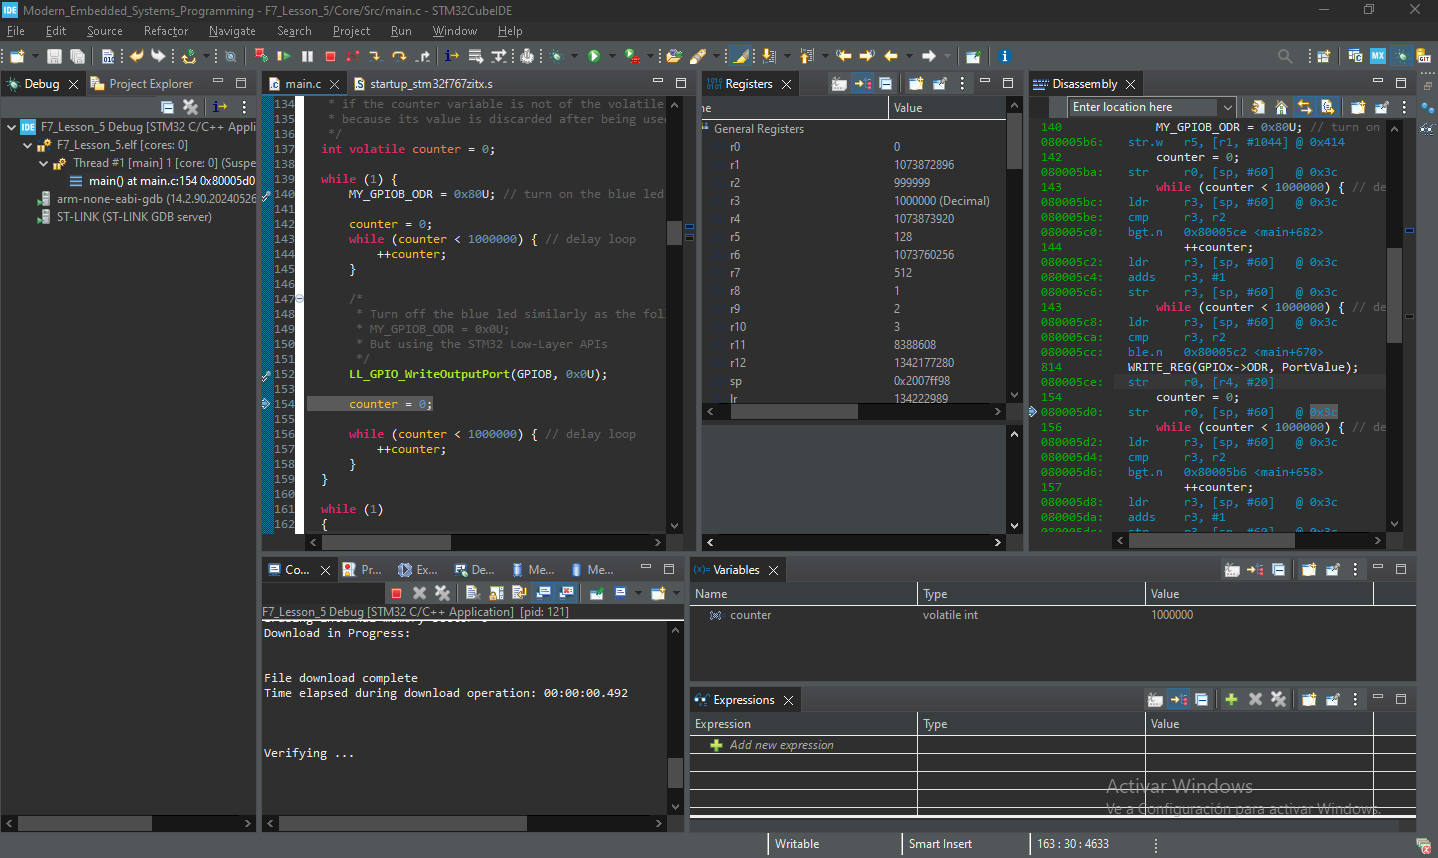
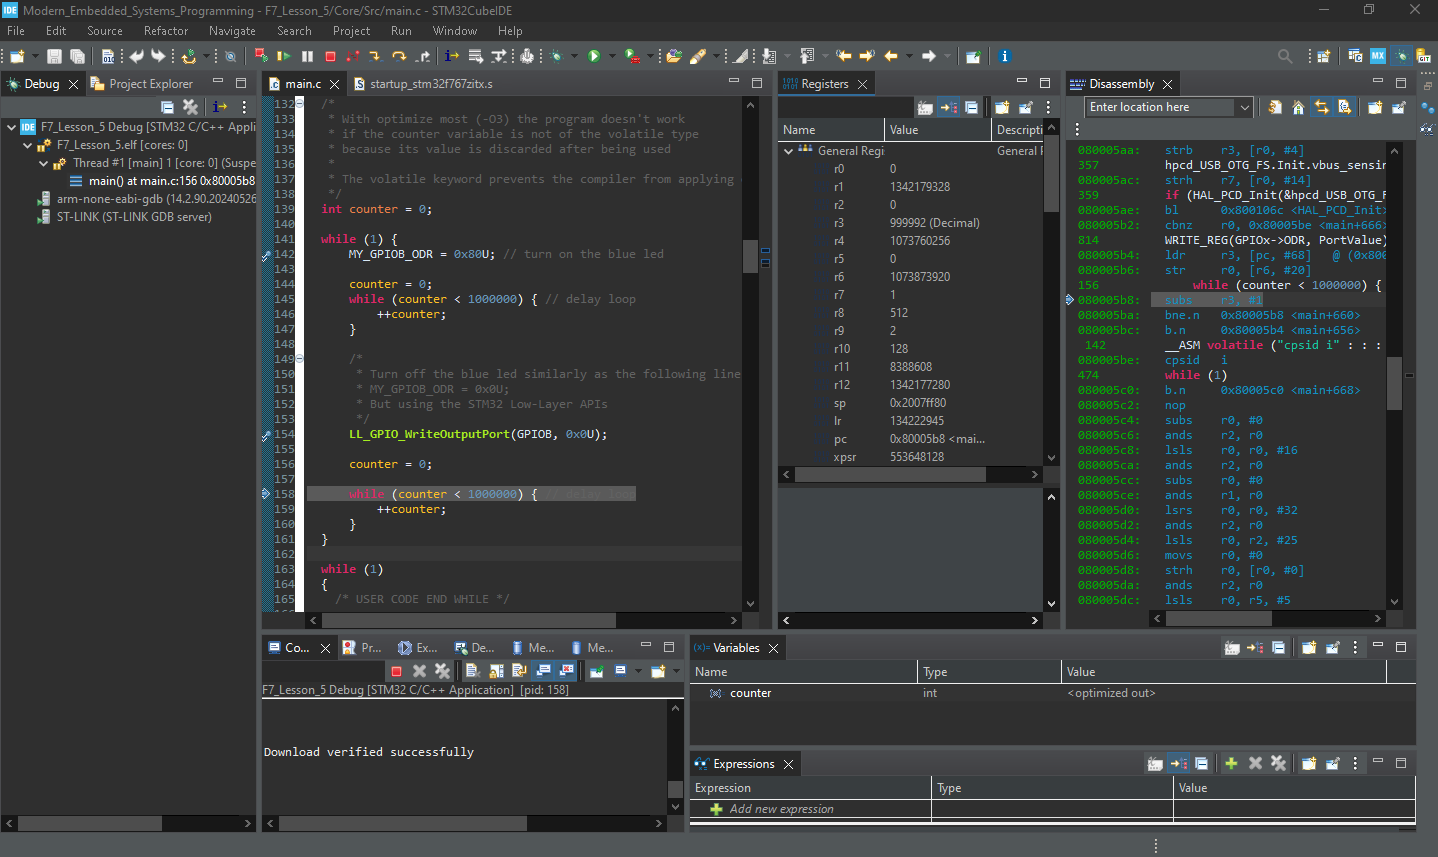
Lesson 5 and 6 Corrected and Lesson 7 Completed

diff --git a/F7_Lesson_7/Core/Src/main.c b/F7_Lesson_7/Core/Src/main.c
@@ -33,6 +33,12 @@
 /* Private define ------------------------------------------------------------*/
 /* USER CODE BEGIN PD */
 
+#define MY_GPIOB_BASE 0x40020400U
+#define MY_GPIOB_ODR (*((unsigned int*)(MY_GPIOB_BASE + 0x14U)))
+#define MY_GPIOB_BSRR (*((unsigned int*)(MY_GPIOB_BASE + 0x18U)))
+#define MY_LED_BLUE (1U << 7)
+#define MY_LED_RED (1U << 14)
+
 /* USER CODE END PD */
 
 /* Private macro -------------------------------------------------------------*/
@@ -121,6 +127,46 @@ int main(void)
 
   /* Infinite loop */
   /* USER CODE BEGIN WHILE */
+
+  MY_GPIOB_ODR = MY_LED_BLUE;
+
+  int volatile counter[2] = { 0, 0 }; // array definition and initialization
+
+  while (1) {
+
+      /*
+       * Turn the red led on
+       * without modifying the state of the modify the blue led
+       * in an atomic operation
+       */
+      MY_GPIOB_BSRR = MY_LED_RED;
+
+      /*
+       * Syntax for reading and modifying an element of an array
+       */
+      counter[0] = 0;
+      while (counter[0] < 1000000) {
+          ++counter[0];
+      }
+
+      /*
+       * Turn the red led off
+       * without modifying the state of the modify the blue led
+       * in an load-modifiy-storage procedure
+       */
+      MY_GPIOB_ODR &= ~MY_LED_RED;
+
+      /*
+       * Syntax for reading and modifying an array element
+       * using pointer arithmetic
+       */
+      *(counter + 1) = 0;
+      while (*(counter + 1) < 1000000) {
+          ++(*(counter + 1));
+      }
+
+  }
+
   while (1)
   {
     /* USER CODE END WHILE */

diff --git a/F7_Lesson_5/Core/Src/main.c b/F7_Lesson_5/Core/Src/main.c
@@ -133,6 +133,8 @@ int main(void)
    * With optimize most (-O3) the program doesn't work
    * if the counter variable is not of the volatile type
    * because its value is discarded after being used
+   *
+   * The volatile keyword prevents the compiler from applying optimization to counter
    */
   int volatile counter = 0;
 

diff --git a/F7_Lesson_6/Core/Src/main.c b/F7_Lesson_6/Core/Src/main.c
@@ -146,7 +146,7 @@ int main(void)
   z = x >> 3;
   z = y >> 3;
 
-  MY_GPIOB_ODR = MY_LED_BLUE;; // turn the blue led on
+  MY_GPIOB_ODR = MY_LED_BLUE; // turn the blue led on
 
   /*
    * Prevents the compiler from applying
